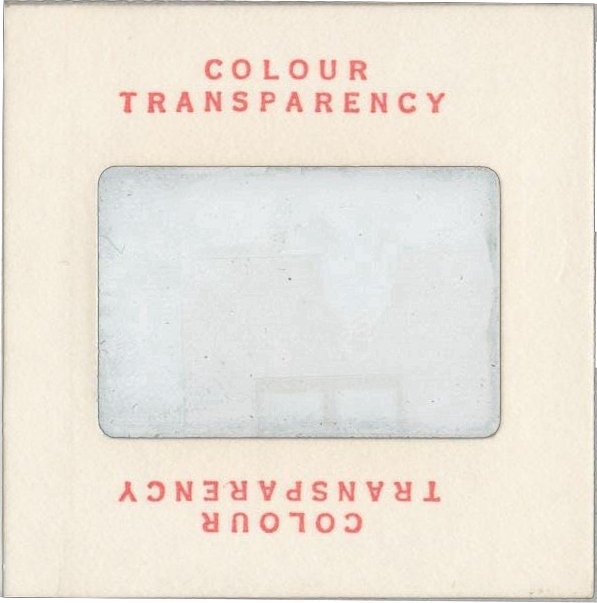
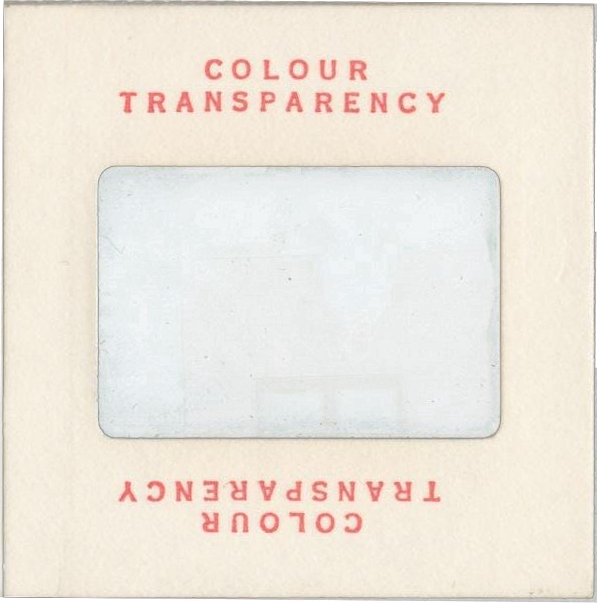
add header to creator

diff --git a/src/MemoryCreator.tsx b/src/MemoryCreator.tsx
@@ -57,7 +57,12 @@ export function MemoryCreator() {
   }, [memory]);
 
   return (
-    <div className="text-white text-lg flex flex-col items-center p-5 gap-10">
+    <div className="text-white text-lg h-full flex flex-col justify-center items-center p-5 gap-10">
+      <header className="text-center">
+        <h1 className="font-extrabold text-3xl uppercase">Welcome to KPIFF!</h1>
+        <p>Now screening: Your memories.</p>
+      </header>
+
       <div className="flex flex-col md:flex-row gap-10">
         <section>
           <header className="text-center italic mb-5">A precious of memory of mine is...</header>
@@ -97,7 +102,7 @@ export function MemoryCreator() {
           type="text"
           name="name"
           id="name"
-          className="ms-3 px-3 p-1 text-black bg-white rounded-md inset-shadow-sm inset-shadow-black/50" />
+          className="w-100 ms-3 px-3 p-1 text-black bg-white rounded-md inset-shadow-sm inset-shadow-black/50" />
       </div>
 
       <div>
